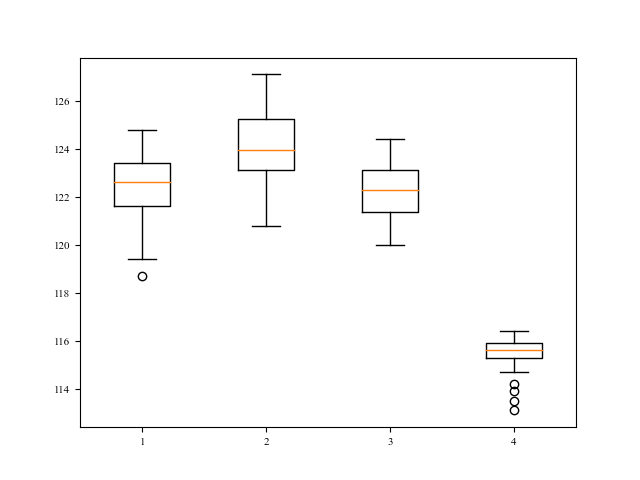
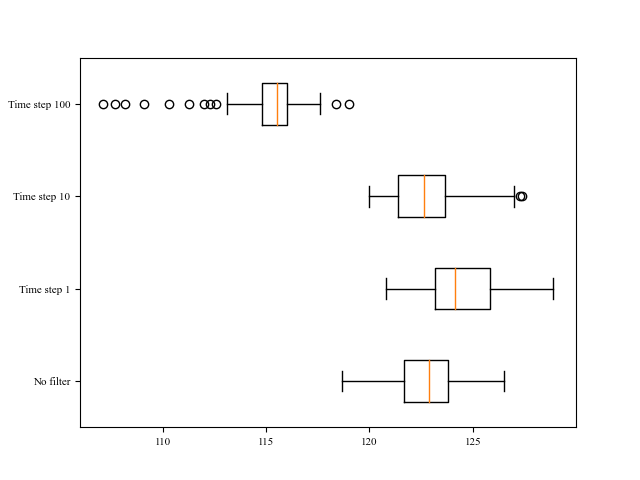
Graphs
Fixed format of values in the arrays, corrected formula for the number of outlieres, added number of outlieres to results, decribed plots

diff --git a/SMS_statistical_analysis/statistical_analysis_declination.py b/SMS_statistical_analysis/statistical_analysis_declination.py
@@ -1,4 +1,5 @@
 from matplotlib import pyplot as plt
+from matplotlib import ticker
 from glob import glob
 import pandas as pd
 import numpy as np
@@ -10,7 +11,7 @@ plt.rcParams['font.size'] = '8'
 plt.rcParams['font.family'] = 'Times New Roman'
 
 #defining the names of the files in data folder
-names = glob('/SMS_statistical_analysis/data/*.*')
+names = glob('C:\GitHub\WarsawUniversityOfTechnology\SMS_statistical_analysis\data\*.*')
 
 if len(names) == 0:
   print('no data detected or wrong direction. \n Press Enter')
@@ -18,13 +19,14 @@ if len(names) == 0:
   sys.exit()
 
 #defining the required data - useful to describe resulting data
-datasets = ['No filter', 'time step 1', 'time step 10', 'time step 100']
-requiredData = ['Standard Deviation', 'Median', '25th Percentile', '75th Percentile', 'Minimum Value', 'Maximum Value']
+datasets = ['No filter', 'Time step 1', 'Time step 10', 'Time step 100']
+requiredData = ['Standard Deviation', 'Median', '25th Percentile', '75th Percentile', 'Minimum Value', 'Maximum Value',
+                'number of outliers']
 
-#creating empty libraries and lists for data
+#creating empty dictionaries and lists for data
 arrays = {}
 headings = {}
-outliers = {}
+outliers = []
 
 standardDeviation = []
 median = []
@@ -61,7 +63,7 @@ for i in range(len(names)):
     movingAverageValues.append(singularAverage)
     movingStandardDeviation.append(singularStandardDeviation)
 
-  ax[0].plot( array[:, 0])
+  ax[0].plot(heading)
   ax[1].plot(movingAverageValues)
   ax[2].plot(movingStandardDeviation)
 
@@ -72,8 +74,8 @@ for i in range(len(names)):
 # calculating required data
   median.append(np.median(heading))
   standardDeviation.append(np.std(heading))
-  quantiles_25.append(np.quantile(heading, 0.25))
-  quantiles_75.append(np.quantile(heading, 0.75))
+  quantiles_25.append(np.quantile(np.sort(heading), 0.25))
+  quantiles_75.append(np.quantile(np.sort(heading), 0.75))
 
   calculatedMinimumValues.append(quantiles_25[i] - 1.5*(quantiles_75[i]-quantiles_25[i]))
   calculatedMaximumValues.append(quantiles_25[i] + 1.5*(quantiles_75[i]-quantiles_25[i]))
@@ -82,28 +84,36 @@ for i in range(len(names)):
   outliersPosition = list(np.where(array[1] == "E")[0])
   outliersPosition += list(np.where(heading < calculatedMinimumValues[i])[0])
   outliersPosition += list(np.where(heading > calculatedMaximumValues[i])[0])
-  outliers[1] = array[outliersPosition, :]
+  outliers.append(len(outliersPosition))
 
 # updating the data and creating the histogram
   array = np.delete(array, outliersPosition, 0)
-  az.hist(array[:, 0], bins=20, alpha=0.75, histtype='barstacked')
+  az.hist(array[:, 0].astype('float64'), bins=20, alpha=0.75, histtype='barstacked')
 
 # adding the heading values to the dictionary
-  headings[datasets[i]] = array[:, 0].astype('float64')
-
-headingRange = range(int(min(minimumValues))-1, int(max(maximumValues))+1, 1)
+  headings[datasets[i]] = heading.astype('float64')
 
 # setting up the plot description
-ax[0].axes.set_yscale('linear')
-ax[0].axes.set_title('Change of heading')
-ax[1].axes.set_yscale('linear')
-ax[1].axes.set_title('Change of average heading ')
+fig1.tight_layout(pad=3.0)
+for i in range(ax.shape[0]):
+  ax[i].set_xlabel('Times [s]')
+ax[0].axes.set_yticks(np.arange(min(minimumValues), max(maximumValues), 2.5))
+ax[0].set_ylabel('Declination [$^\circ$]')
+ax[2].legend(datasets, loc='best')
+# ax[0].axes.set_title('Change of heading')
+ax[1].set_yticks(np.arange(min(minimumValues), max(maximumValues), 2.5))
+# ax[1].axes.set_title('Change of average heading ')
+ax[1].set_ylabel('Average declination [$^\circ$]')
 ax[2].axes.set_yscale('linear')
-ax[2].axes.set_title('Change of standard deviation ')
-az.axes.set_xscale('linear')
+# ax[2].axes.set_title('Change of standard deviation ')
+ax[2].set_ylabel('Standard deviation of declination')
 
-ay.boxplot(headings.values())
-
+#az.axes.set_xticks(np.arange(min(minimumValues), max(maximumValues), 2.5))
+az.axes.set_xlabel('Declination [$^\circ$]')
+az.axes.set_ylabel('Number of appearances')
+az.legend(datasets)
+ay.boxplot(headings.values(),whis=1.5,vert = False, usermedians = median,labels=datasets)
+ay.axes.set_ylabel('Declination [$^\circ$]')
 # saving the graphs
 fig1.savefig('results/heading.png')
 fig3.savefig('results/boxPlots.png')
@@ -111,5 +121,5 @@ fig2.savefig('results/histogram.png')
 
 # saving resulting data to xlsx
 data = pd.DataFrame([median, standardDeviation, quantiles_25, quantiles_75, calculatedMinimumValues,
-                     calculatedMaximumValues], columns=datasets, index=requiredData).T
+                     calculatedMaximumValues, outliers], columns=datasets, index=requiredData).T
 data.to_excel("results/results.xlsx")
